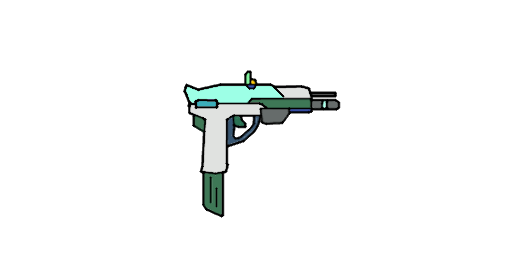
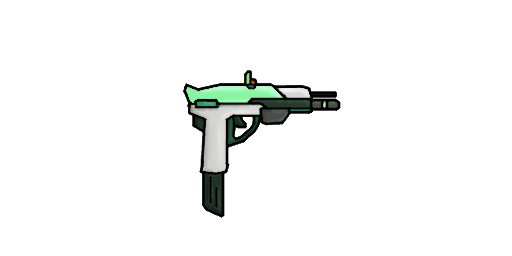
minor balance changes

Changed region(s): [[0.3438, 0.2812, 0.6875, 0.8438]]

diff --git a/src/components/GameFunctions/Levels.ts b/src/components/GameFunctions/Levels.ts
@@ -23,74 +23,74 @@ LEVEL CODING GUIDE:
 */
     public levelData: LevelEntry[][] = [
         [
-        {cmd: ["spawn", "thug", "xx"], args: [2,6,1000], cond: []},
-        {cmd: ["waitEnemies"], args: [], cond: []},
-        {cmd: ["wait"], args: [5000], cond: []},
-        {cmd: ["loop"], args: [0,2,9999], cond: []},
-        {cmd: ["wait"], args: [500], cond: []},
-        {cmd: ["spawn", "thug", "xx"], args: [5,3,250], cond: []},
-        {cmd: ["wait"], args: [1000], cond: []},
-        {cmd: ["spawn", "thug", "xx"], args: [5,3,250], cond: []},
-        {cmd: ["wait"], args: [4000], cond: []},
-        {cmd: ["waitEnemies"], args: [], cond: []},
-        {cmd: ["loop"], args: [5,2,9998], cond: []},
-        {cmd: ["wait"], args: [500], cond: []},
-        {cmd: ["spawn", "thug", "xx"], args: [3,2,500], cond: []},
-        {cmd: ["spawn", "ufo", "r"], args: [2,1,500], cond: []},
-        {cmd: ["waitEnemies"], args: [], cond: []},
-        {cmd: ["wait"], args: [2000], cond: []},
-        {cmd: ["loop"], args: [11,2,9997], cond: []},
-        {cmd: ["wait"], args: [5000], cond: []},
-        {cmd: ["spawn", "ufo", "r"], args: [2,2,1500], cond: []},
-        {cmd: ["wait"], args: [3000], cond: []},
-        {cmd: ["spawn", "thug", "xx"], args: [4,4,250], cond: []},
-        {cmd: ["wait"], args: [12000], cond: []},
-        {cmd: ["spawn", "ufo", "r"], args: [2,2,1500], cond: []},
-        {cmd: ["wait"], args: [1000], cond: []},
-        {cmd: ["spawn", "thug", "xx"], args: [10,2,250], cond: []},
-        {cmd: ["wait"], args: [15000], cond: []},
-        {cmd: ["spawn", "ufo", "r"], args: [2,2,1500], cond: []},
-        {cmd: ["wait"], args: [1000], cond: []},
-        {cmd: ["spawn", "thug", "xx"], args: [10,2,250], cond: []},
-        {cmd: ["wait"], args: [1000], cond: []},
-        {cmd: ["spawn", "ufo", "r"], args: [1,2,250], cond: []},
-        {cmd: ["wait"], args: [1000], cond: []},
-        {cmd: ["spawn", "thug", "xx"], args: [15,2,250], cond: []},
-        {cmd: ["wait"], args: [1000], cond: []},
-        {cmd: ["spawn", "thug", "xx"], args: [15,2,250], cond: []},
-        {cmd: ["wait"], args: [1000], cond: []},
-        {cmd: ["waitEnemies"], args: [], cond: []},
-        {cmd: ["spawn", "thug", "xx"], args: [20,2,500], cond: []},
-        {cmd: ["spawn", "ufo", "r"], args: [4,5,2500], cond: []},
-        {cmd: ["wait"], args: [5000], cond: []},
-        {cmd: ["spawn", "thug", "xx"], args: [20,2,500], cond: []},
-        {cmd: ["spawn", "ufo", "r"], args: [4,5,2500], cond: []},
-        {cmd: ["wait"], args: [5000], cond: []},
-        {cmd: ["waitEnemies"], args: [], cond: []},
-        {cmd: ["spawn", "thug", "xx"], args: [10,10,500], cond: []},
-        {cmd: ["spawn", "ufo", "r"], args: [3,10,2500], cond: []},
-        {cmd: ["spawn", "thug", "xx"], args: [10,10,500], cond: []},
-        {cmd: ["spawn", "ufo", "r"], args: [3,10,2500], cond: []},
-        {cmd: ["waitEnemies"], args: [], cond: []},
-        {cmd: ["wait"], args: [6000], cond: []},
-        {cmd: ["incDifficulty"], args: [2], cond: []},
-        {cmd: ["spawn", "thug", "xx"], args: [3,2,500], cond: []},
-        {cmd: ["spawn", "ufo", "r"], args: [2,1,500], cond: []},
-        {cmd: ["waitEnemies"], args: [], cond: []},
-        {cmd: ["spawn", "thug", "xx"], args: [4,3,500], cond: []},
-        {cmd: ["spawn", "ufo", "r"], args: [2,1,500], cond: []},
-        {cmd: ["wait"], args: [5000], cond: []},
-        {cmd: ["spawn", "thug", "xx"], args: [4,5,500], cond: []},
-        {cmd: ["spawn", "ufo", "r"], args: [2,4,500], cond: []},
-        {cmd: ["waitEnemies"], args: [], cond: []},
-        {cmd: ["wait"], args: [2000], cond: []},
-        {cmd: ["spawn", "thug", "xx"], args: [4,3,500], cond: []},
-        {cmd: ["spawn", "ufo", "r"], args: [2,1,500], cond: []},
-        {cmd: ["wait"], args: [5000], cond: []},
-        {cmd: ["spawn", "thug", "xx"], args: [4,5,500], cond: []},
-        {cmd: ["spawn", "ufo", "r"], args: [2,4,500], cond: []},
-        {cmd: ["waitEnemies"], args: [], cond: []},
-        {cmd: ["loop"], args: [18], cond: []},]
+/*0*/   {cmd: ["spawn", "thug", "xx"], args: [2,6,1000], cond: []},
+/*1*/   {cmd: ["waitEnemies"], args: [], cond: []},
+/*2*/   {cmd: ["wait"], args: [5000], cond: []},
+/*3*/   {cmd: ["loop"], args: [0,2,9999], cond: []},
+/*4*/   {cmd: ["wait"], args: [500], cond: []},
+/*5*/   {cmd: ["spawn", "thug", "xx"], args: [5,3,250], cond: []},
+/*6*/   {cmd: ["wait"], args: [1000], cond: []},
+/*7*/   {cmd: ["spawn", "thug", "xx"], args: [5,3,250], cond: []},
+/*8*/   {cmd: ["wait"], args: [4000], cond: []},
+/*9*/   {cmd: ["waitEnemies"], args: [], cond: []},
+/*10*/  {cmd: ["loop"], args: [5,2,9998], cond: []},
+/*11*/  {cmd: ["wait"], args: [500], cond: []},
+/*12*/  {cmd: ["spawn", "thug", "xx"], args: [3,2,500], cond: []},
+/*13*/  {cmd: ["spawn", "ufo", "r"], args: [2,1,500], cond: []},
+/*14*/  {cmd: ["waitEnemies"], args: [], cond: []},
+/*15*/  {cmd: ["wait"], args: [2000], cond: []},
+/*16*/  {cmd: ["loop"], args: [11,2,9997], cond: []},
+/*17*/  {cmd: ["wait"], args: [5000], cond: []},
+/*18*/  {cmd: ["spawn", "ufo", "r"], args: [2,2,1500], cond: []},
+/*19*/  {cmd: ["wait"], args: [3000], cond: []},
+/*20*/  {cmd: ["spawn", "thug", "xx"], args: [4,4,250], cond: []},
+/*21*/  {cmd: ["wait"], args: [12000], cond: []},
+/*22*/  {cmd: ["spawn", "ufo", "r"], args: [2,2,1500], cond: []},
+/*23*/  {cmd: ["wait"], args: [1000], cond: []},
+/*24*/  {cmd: ["spawn", "thug", "xx"], args: [10,2,250], cond: []},
+/*25*/  {cmd: ["wait"], args: [15000], cond: []},
+/*26*/  {cmd: ["spawn", "ufo", "r"], args: [2,2,1500], cond: []},
+/*27*/  {cmd: ["wait"], args: [1000], cond: []},
+/*28*/  {cmd: ["spawn", "thug", "xx"], args: [10,2,250], cond: []},
+/*29*/  {cmd: ["wait"], args: [1000], cond: []},
+/*30*/  {cmd: ["spawn", "ufo", "r"], args: [1,2,250], cond: []},
+/*31*/  {cmd: ["wait"], args: [1000], cond: []},
+/*32*/  {cmd: ["spawn", "thug", "xx"], args: [15,2,250], cond: []},
+/*33*/  {cmd: ["wait"], args: [1000], cond: []},
+/*34*/  {cmd: ["spawn", "thug", "xx"], args: [15,2,250], cond: []},
+/*35*/  {cmd: ["wait"], args: [1000], cond: []},
+/*36*/  {cmd: ["waitEnemies"], args: [], cond: []},
+/*37*/  {cmd: ["spawn", "thug", "xx"], args: [20,2,500], cond: []},
+/*38*/  {cmd: ["spawn", "ufo", "r"], args: [4,5,2500], cond: []},
+/*39*/  {cmd: ["wait"], args: [5000], cond: []},
+/*40*/  {cmd: ["spawn", "thug", "xx"], args: [20,2,500], cond: []},
+/*41*/  {cmd: ["spawn", "ufo", "r"], args: [4,5,2500], cond: []},
+/*42*/  {cmd: ["wait"], args: [5000], cond: []},
+/*43*/  {cmd: ["waitEnemies"], args: [], cond: []},
+/*44*/  {cmd: ["spawn", "thug", "xx"], args: [10,10,500], cond: []},
+/*45*/  {cmd: ["spawn", "ufo", "r"], args: [3,10,2500], cond: []},
+/*46*/  {cmd: ["spawn", "thug", "xx"], args: [10,10,500], cond: []},
+/*47*/  {cmd: ["spawn", "ufo", "r"], args: [3,10,2500], cond: []},
+/*48*/  {cmd: ["waitEnemies"], args: [], cond: []},
+/*49*/  {cmd: ["wait"], args: [6000], cond: []},
+/*50*/  {cmd: ["incDifficulty"], args: [2], cond: []},
+/*51*/  {cmd: ["spawn", "thug", "xx"], args: [3,2,500], cond: []},
+/*52*/  {cmd: ["spawn", "ufo", "r"], args: [2,1,500], cond: []},
+/*53*/  {cmd: ["waitEnemies"], args: [], cond: []},
+/*54*/  {cmd: ["spawn", "thug", "xx"], args: [4,3,500], cond: []},
+/*55*/  {cmd: ["spawn", "ufo", "r"], args: [2,1,500], cond: []},
+/*56*/  {cmd: ["wait"], args: [5000], cond: []},
+/*57*/  {cmd: ["spawn", "thug", "xx"], args: [4,5,500], cond: []},
+/*58*/  {cmd: ["spawn", "ufo", "r"], args: [2,4,500], cond: []},
+/*59*/  {cmd: ["waitEnemies"], args: [], cond: []},
+/*60*/  {cmd: ["wait"], args: [2000], cond: []},
+/*61*/  {cmd: ["spawn", "thug", "xx"], args: [4,3,500], cond: []},
+/*62*/  {cmd: ["spawn", "ufo", "r"], args: [2,1,500], cond: []},
+/*63*/  {cmd: ["wait"], args: [5000], cond: []},
+/*64*/  {cmd: ["spawn", "thug", "xx"], args: [4,5,500], cond: []},
+/*65*/  {cmd: ["spawn", "ufo", "r"], args: [2,4,500], cond: []},
+/*66*/  {cmd: ["waitEnemies"], args: [], cond: []},
+/*67*/  {cmd: ["loop"], args: [18], cond: []},]
     ];
 
     public scene: GameScene;

diff --git a/src/components/GlobalVariables.ts b/src/components/GlobalVariables.ts
@@ -21,8 +21,8 @@ export class GlobalVariables {
     public maxAugOverLevel: number = 13;
     public maxAugLevel: number = 10;
     public boxCount: number = 0;
-    public money: number = 0;
-    public widgets: number = 999;
+    public money: number = 500;
+    public widgets: number = 10;
     public skipcutscenes: boolean;
 
     public defaultItem: ItemParams = {id: -999, name: "default", spr: ["itemtile", "itemtile"], curLevel:0, maxLevel:10, desc:"DEFAULT", upgradeDesc: "DEFAULT"};
@@ -140,7 +140,7 @@ export class GlobalVariables {
         [2, {type:2,name:"ANTIK",class:"shotgun", dmg: 115, spd: 20000, rof: 2.5, spcd: [-1, 1000, 10, 10000], shots: 6, pen: 1.5, pcd: -999, clip: 8, load: 2.5, width: 1, rad: 1,
          acc: 15, arpen: [0,0], crit: [0.001,1.5], ele: 1, onhit: 0, weight: 0.125, rarity: 1, burst:[1,1], dot: [], augs: [0,1,1,1, 1,0,1,1, 0,1,1,1, 1,1,0,0, 1,1,0], customaug: {name: "default", index: 18, level: 0, maxlv: 10, lvcap: 10, desc: ""}, 
          passives: [{name: "Timeless", desc: "+3 pellets and +1 flat rate of fire",activated:false}]}],
-        [3, {type:3,name:"WS-Broadhead",class:"sniper", dmg: 765, spd: 50000, rof: 1.5, spcd: [-1, 1000, 10, 10000], shots: 1, pen: 3, pcd: -999, clip: 5, load: 2, width: 1, rad: 1,
+        [3, {type:3,name:"WS-Broadhead",class:"sniper", dmg: 765, spd: 50000, rof: 1.5, spcd: [-1, 1000, 10, 10000], shots: 1, pen: 3.25, pcd: -999, clip: 5, load: 2, width: 1, rad: 1,
          acc: 0, arpen: [0,0], crit: [0.001,3], ele: 1, onhit: 0, weight: 0.35, rarity: 1, burst:[1,1], dot: [], augs: [0,1,1,1, 1,0,1,1, 0,1,0,1, 1,1,0,0, 1,1,0], customaug: {name: "default", index: 18, level: 0, maxlv: 10, lvcap: 10, desc: ""}, passives: [
             {name: "Long Bolts", desc: "+40% crit chance",activated:false}]}],
         [4, {type:4,name:"BJURÖN",class:"assault", dmg: 175, spd: 28000, rof: 6, spcd: [-1, 1000, 10, 10000], shots: 1, pen: 2.5, pcd: -999, clip: 40, load: 2, width: 1, rad: 1,
@@ -161,13 +161,14 @@ export class GlobalVariables {
         [8, {type:8,name:"NTR-141",class:"pistol", dmg: 60, spd: 20000, rof: 16, spcd: [-1, 1000, 10, 10000], shots: 1, pen: 1, pcd: -999, clip: 21, load: 1, width: 1, rad: 1,
          acc: 2, arpen: [0,0], crit: [0.001,2.75], ele: 1, onhit: 0, weight: 0.05, rarity: 1, burst:[1,1], dot: [], augs: [0,1,1,1, 1,0,1,1, 0,1,1,1, 1,1,0,0, 1,1,0], customaug: {name: "default", index: 18, level: 0, maxlv: 10, lvcap: 10, desc: ""}, 
          passives: [{name: "Quality and Quantity", desc: "+22 flat on-hit damage", activated: false}]}],
+
         [9, {type:9,name:"Two-Fanged Wolf",class:"smg", dmg: 140, spd: 20000, rof: 7, spcd: [-1, 1000, 10, 10000], shots: 2, pen: 2, pcd: -999, clip: 50, load: 1.75, width: 1, rad: 1,
          acc: 1.5, arpen: [0,0], crit: [0.001,2.25], ele: 1, onhit: 0, weight: 0.1, rarity: 1, burst:[1,1], dot: [], augs: [0,1,1,1, 1,0,1,1, 0,1,1,1, 1,1,0,0, 1,1,0], customaug: {name: "default", index: 18, level: 0, maxlv: 10, lvcap: 10, desc: ""}, 
          passives: [{name: "Snaggletooth", desc: "50% chance to fire a third, inaccurate shot with 35% increased critical strike chance.", activated: true},
             {name: "Pack Tactics", desc: "All shots will critically strike if any shot rolls a critical strike.", activated: true},
             {name: "Domination", desc: "Third shot fire chance and critical strike chance increased by 35% each.", activated: false},
          ]}],
-        [10, {type:10,name:"WS-Crossfade SE",class:"pistol", dmg: 90, spd: 20000, rof: 9, spcd: [-1, 1000, 10, 10000], shots: 1, pen: 1, pcd: 20, clip: 13, load: 1.15, width: 1, rad: 1,
+        [10, {type:10,name:"WS-Crossfade SE",class:"pistol", dmg: 90, spd: 20000, rof: 9, spcd: [-1, 1000, 10, 10000], shots: 1, pen: 1, pcd: -999, clip: 13, load: 1.15, width: 1, rad: 1,
         acc: 8, arpen: [0,0], crit: [0.001,1.5], ele: 1, onhit: 10, weight: 0.05, rarity: 1, burst:[1,1], dot: [], augs: [0,1,1,1, 1,0,1,1, 0,0,1,1, 1,1,0,0, 1,1,1], customaug: {name: "Split Shot", index: 18, level: 0, maxlv: 10, lvcap: 10, desc: "Additional flat pierce and onhit damage. +0.2 / +2 per level."}, 
         passives: [{name: "Flail", desc: "Randomly fire 1, 2 or 3 projectiles per shot.", activated: true},
             {name: "Havoc", desc: "Can also fire 4 projectiles per shot.", activated: false}
@@ -176,6 +177,12 @@ export class GlobalVariables {
          acc: 5.5, arpen: [0,0], crit: [0.001,1.75], ele: 1, onhit: 0, weight: 0.025, rarity: 1, burst:[1,1], dot: [], augs: [0,1,1,1, 1,0,1,1, 0,1,1,1, 1,1,1,0, 1,1,0], customaug: {name: "default", index: 18, level: 0, maxlv: 10, lvcap: 10, desc: ""}, 
          passives: [{name: "Beyond Tilt", desc: "Alt-fire to gain 40% fire rate for 6s.", activated: true}, {name: "Nimble", desc: "Base reload time decreased by 40%.", activated: false}]}],
 
+
+        /*
+        [11, {type:11,name:"Luxxrazer",class:"blaster", dmg: 98, spd: 20000, rof: 9, spcd: [500, 1000, 25, 15000], shots: 1, pen: 1.75, pcd: -999, clip: 40, load: 1.5, width: 1, rad: 1,
+        acc: 5.5, arpen: [0,0], crit: [0.001,1.75], ele: 1, onhit: 0, weight: 0.025, rarity: 1, burst:[1,1], dot: [], augs: [0,1,1,1, 1,0,1,1, 0,1,1,1, 1,1,1,0, 1,1,0], customaug: {name: "Blast Burn", index: 18, level: 0, maxlv: 10, lvcap: 10, desc: "Burn detonations reapply burn. +0.25s burn per upgrade."}, 
+        passives: [{name: "Dragonling", desc: "Hits extend the weapon's burn effect. Taking burn damage for over 3 seconds detonates the remaining burn.", activated: true}, {name: "Fire and Dice", desc: "Alt-fire to smite all enemies in a cone before you.", activated: true}, {name: "Convert Fire Resistance", desc: "Gain 1% damage per 1% enemy fire resistance. Damage ignores 50% of fire resistance.", activated: false}]}],
+        */
         
     ]);
 
@@ -376,7 +383,7 @@ export class GlobalVariables {
             }
         }
         list.push(0);  // have a chance for blank augment
-        console.log ("List of augments for selection: " + list);
+        //console.log ("List of augments for selection: " + list);
         
         list.forEach((l) =>{
             if((l >= 0) && (l < this.augmentWeights.length)){

diff --git a/src/scenes/UpgradeScene.ts b/src/scenes/UpgradeScene.ts
@@ -41,6 +41,8 @@ export class UpgradeScene extends BaseScene {
 	public dragGun: Phaser.GameObjects.Image;
 	public gunning: boolean = false;
 	public gImage: Phaser.GameObjects.Image;
+
+	public moneyTxt: Phaser.GameObjects.Text;
 	public p1: Phaser.Math.Vector2;
 	public p2: Phaser.Math.Vector2;
 	public p3: Phaser.Math.Vector2;
@@ -103,6 +105,17 @@ export class UpgradeScene extends BaseScene {
 		this.botlay.setOrigin(0,0);
 		this.botlay.setScale(1);
 		this.botlay.setDepth(1);
+
+        this.moneyTxt = this.addText({
+			x: 24,
+			y: 96,
+			size: 42,
+			color: "white",
+			text: "Money: " + "\n" + (this.masterData.money) + "€",
+		});
+		this.moneyTxt.setOrigin(0,0.5);
+		this.moneyTxt.setDepth(11);
+		this.add.existing(this.moneyTxt);
 
 		this.flashlines = this.add.image(0, 0, "redlines");
 		this.flashlines.setOrigin(0,0);
@@ -190,8 +203,8 @@ export class UpgradeScene extends BaseScene {
 				this.lockout = 0;
 			}
 		}
-
 		this.augUI.update(time,delta);
+		this.moneyTxt.setText("Money: " + "\n" + (this.masterData.money) + "€");
 	}
 
 	initButtons(){
@@ -235,13 +248,25 @@ export class UpgradeScene extends BaseScene {
 		}
 		let ps = this.masterData.inv.fetchGun(this.buttonList[ns].gID);
 		let val = 2000;
+		let wval = 6;
 		ps.augs.forEach((ag: Augment) => {
 			val += (500)+(ag.level*50);
+			wval += 1;
+			if(ag.level > 5){
+				wval += 1;
+				if(ag.level > 10){
+					wval += 2;
+				}
+			}
 		})
 		let av = new DamageText(this,1280,758,"+" + val + "€","money");
+		let aw = new DamageText(this,620,758,"+" + wval,"widgetgain");
 		this.gfx.push(av);
 		this.gfxLayer.add(av);
+		this.gfx.push(aw);
+		this.gfxLayer.add(aw);
 		this.masterData.money += val;
+		this.masterData.widgets += wval;
 		this.cancelDrag();
 		this.removeButton(ns);
 
@@ -260,12 +285,12 @@ export class UpgradeScene extends BaseScene {
 			console.log("Tried to remove nonexistent weapon button/index.");
 			return;
 		}
-		console.log("Selling position: " + this.curPos);
+		//console.log("Selling position: " + this.curPos);
 
 		if(n < (this.buttonList.length-1)){
 			//if not the final element, move the rest of the list up and keep curpos the same
 			for(let pp = n+1; pp < this.buttonList.length; pp++){
-				console.log("Moving button from position " + this.buttonList[pp].position + " to " + (this.buttonList[pp].position-1));
+				//console.log("Moving button from position " + this.buttonList[pp].position + " to " + (this.buttonList[pp].position-1));
 				this.buttonList[pp].position--;
 				this.buttonList[pp].teleportUp(256);
 			}

diff --git a/src/components/Graphics/DamageText.ts b/src/components/Graphics/DamageText.ts
@@ -118,10 +118,20 @@ export class DamageText extends Effect{
                 break;
             } case "money": {
                 size = 80;
+                this.negative *= 2;
                 color1 = "yellow";
                 color2 = "yellow";
                 flash = false;
                 amplitude = 0;
+                break;
+            } case "widgetgain": {
+                size = 80;
+                this.negative *= 2;
+                color1 = "aqua";
+                color2 = "white";
+                flash = true;
+                amplitude = 0;
+                break;
             } case "widgetloss": {
                 size = 80;
                 this.negative *= -2.5;
@@ -130,6 +140,7 @@ export class DamageText extends Effect{
                 color2 = "goldenrod";
                 flash = true;
                 amplitude = 0.25;
+                break;
             } default: {
                 break;
             }

diff --git a/src/scenes/LootScene.ts b/src/scenes/LootScene.ts
@@ -43,7 +43,7 @@ export class LootScene extends BaseScene{
 
     create(): void {
         this.resetVariables();
-        console.log("Amount of boxes: " + this.masterData.lootBoxes.length);
+        //console.log("Amount of boxes: " + this.masterData.lootBoxes.length);
         if(this.masterData.lootBoxes.length <= 0){
             this.skip = true;
             this.progress();
@@ -55,7 +55,7 @@ export class LootScene extends BaseScene{
             this.bkg.setDepth(-20);
             this.curIndex = this.masterData.lootBoxes.length-1;
             this.tOff = Math.random()*200000;
-            console.log("Generating Box");
+            //console.log("Generating Box");
             this.curBox = new Lootbox(this,960,540,this.masterData.lootBoxes[this.curIndex],this.generateLootTable(this.masterData.lootBoxes[this.curIndex]));
             this.add.existing(this.curBox);
             this.curBox.setDepth(5);

diff --git a/src/components/Target.ts b/src/components/Target.ts
@@ -5,13 +5,17 @@ import { DamageText } from "./Graphics/DamageText";
 import { ScalingEffect } from "./Graphics/ScalingEffect";
 import { StickyTracer } from "./Graphics/StickyTracer";
 
-export interface DamageBatch{
+export interface DamageBatch {
     key: string;
     amt: number;
     interval: number[];
     type: string;
     deleteFlag: boolean;
     params: string[];
+}
+
+export interface ArmorType {
+    
 }
 
 export class Target extends Phaser.GameObjects.Container{

diff --git a/src/components/WeaponFunctions/Bullet.ts b/src/components/WeaponFunctions/Bullet.ts
@@ -312,7 +312,9 @@ export class Bullet extends Phaser.GameObjects.Container{
         for(let n = 0; n < this.thits.length; n++){
             if(rp >= 0){
                 if(this.processPierceHitData(n)){
-                    rp--;
+                    if(rp < 999999){
+                        rp--;
+                    }
                 }
                 
                 if(rp <= 0) {

diff --git a/src/components/GameFunctions/Items/StatItem.ts b/src/components/GameFunctions/Items/StatItem.ts
@@ -37,7 +37,7 @@ export class StatItem extends Item{
                 this.owner.smite += 0.15;
                 break;
             } case "Ultravibration": {
-                this.owner.execute += 0.05;
+                this.owner.execute += 0.1;
                 break;
             } case "Sticky Bomb": {
                 this.owner.sticky += 50;
